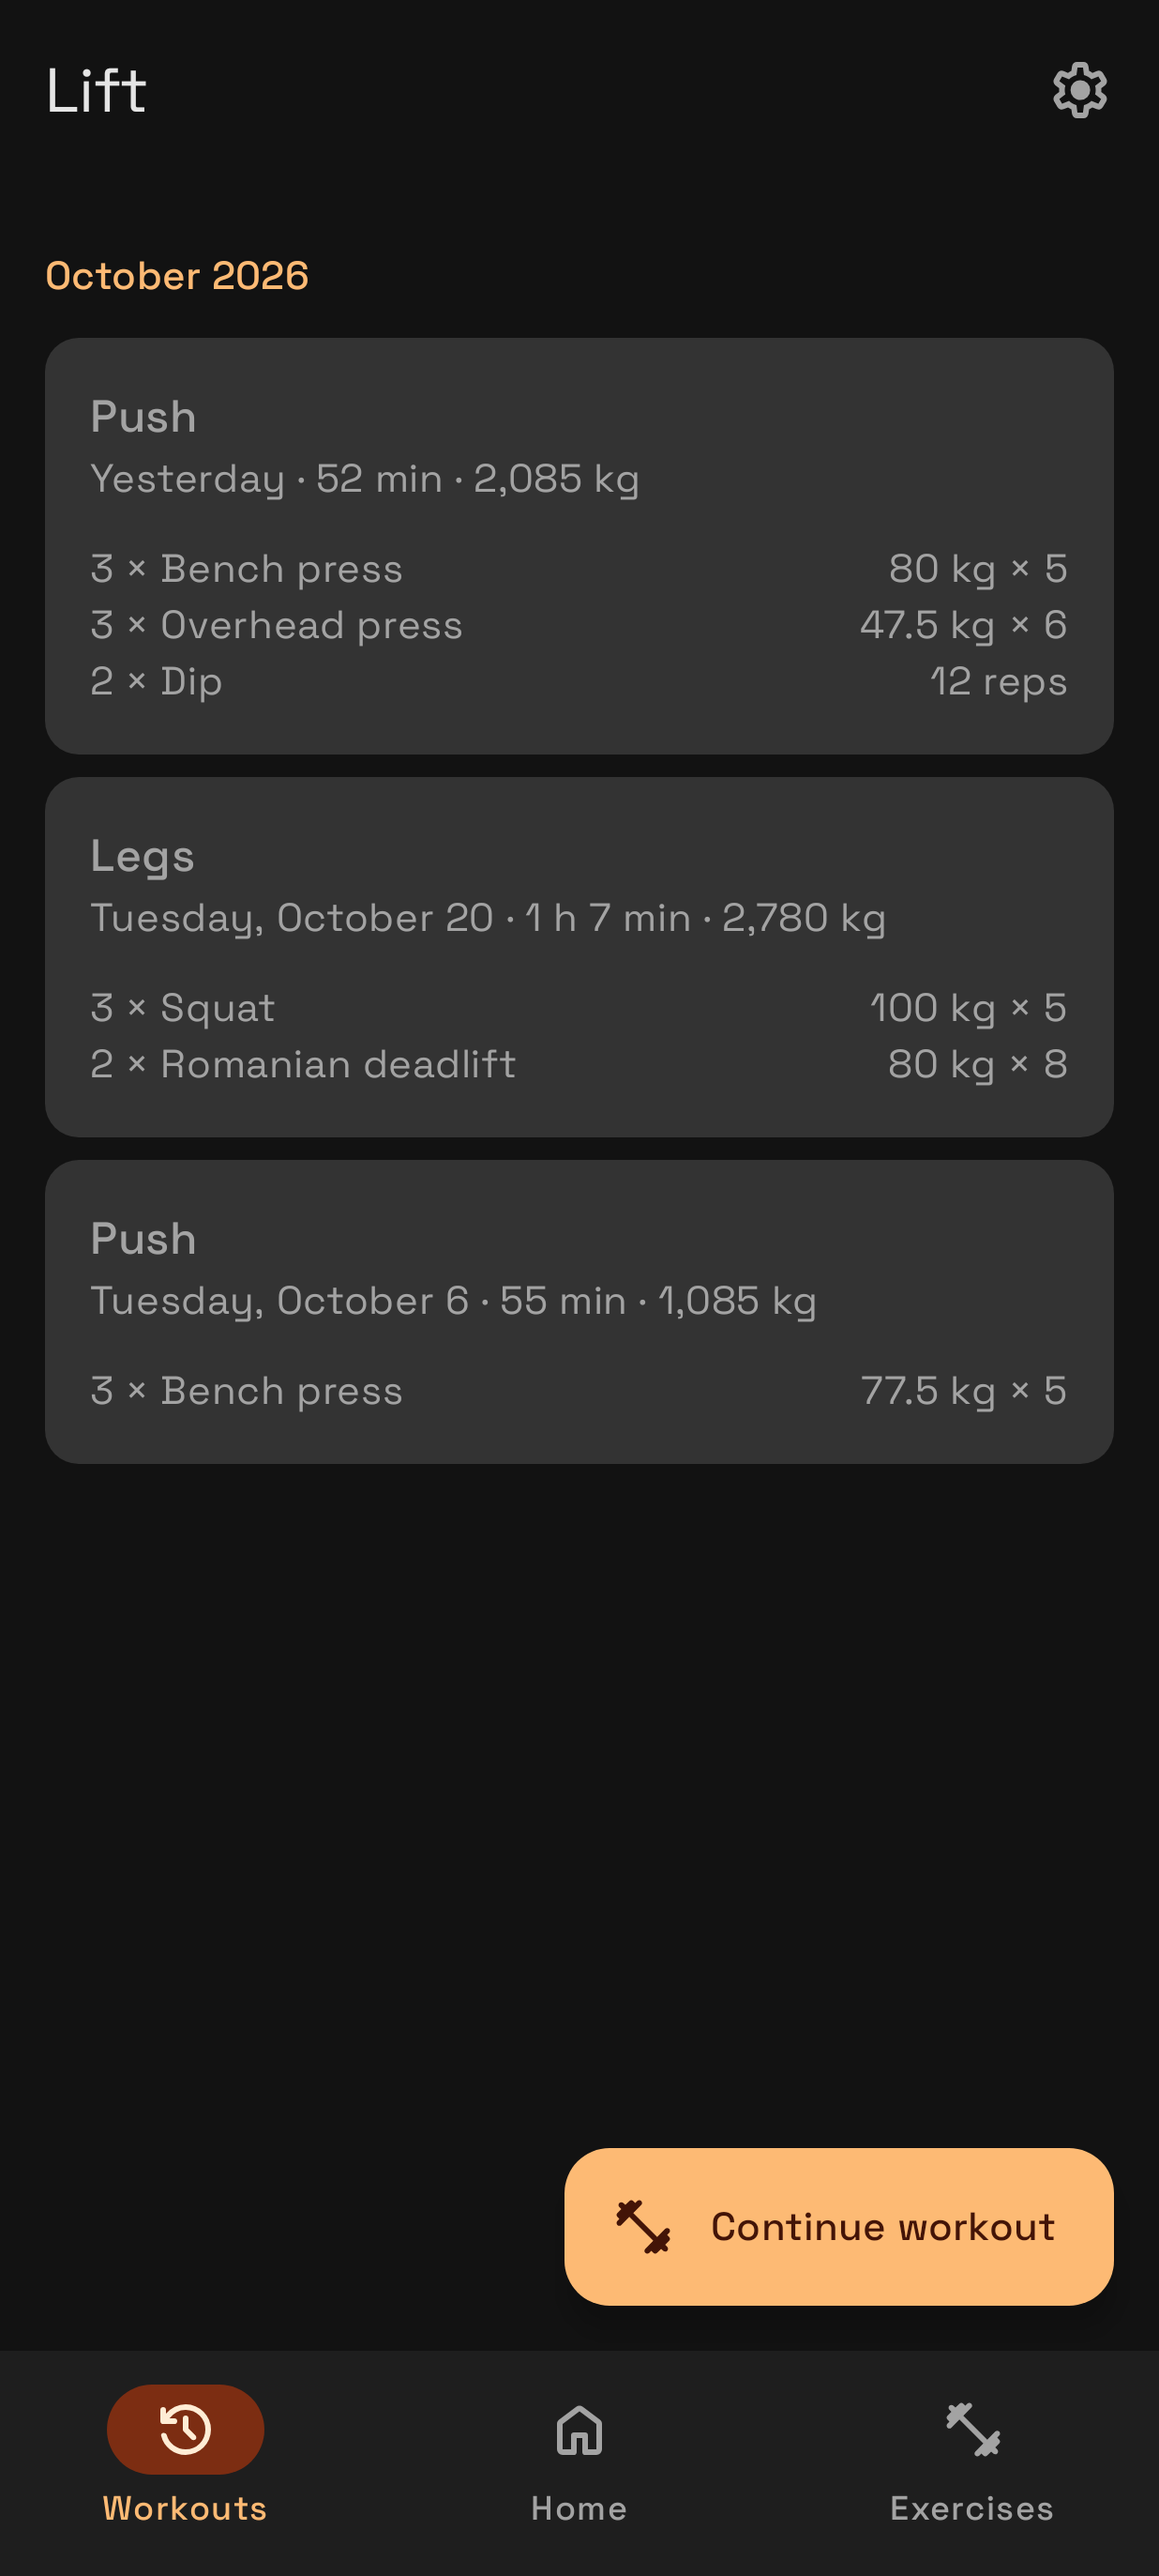
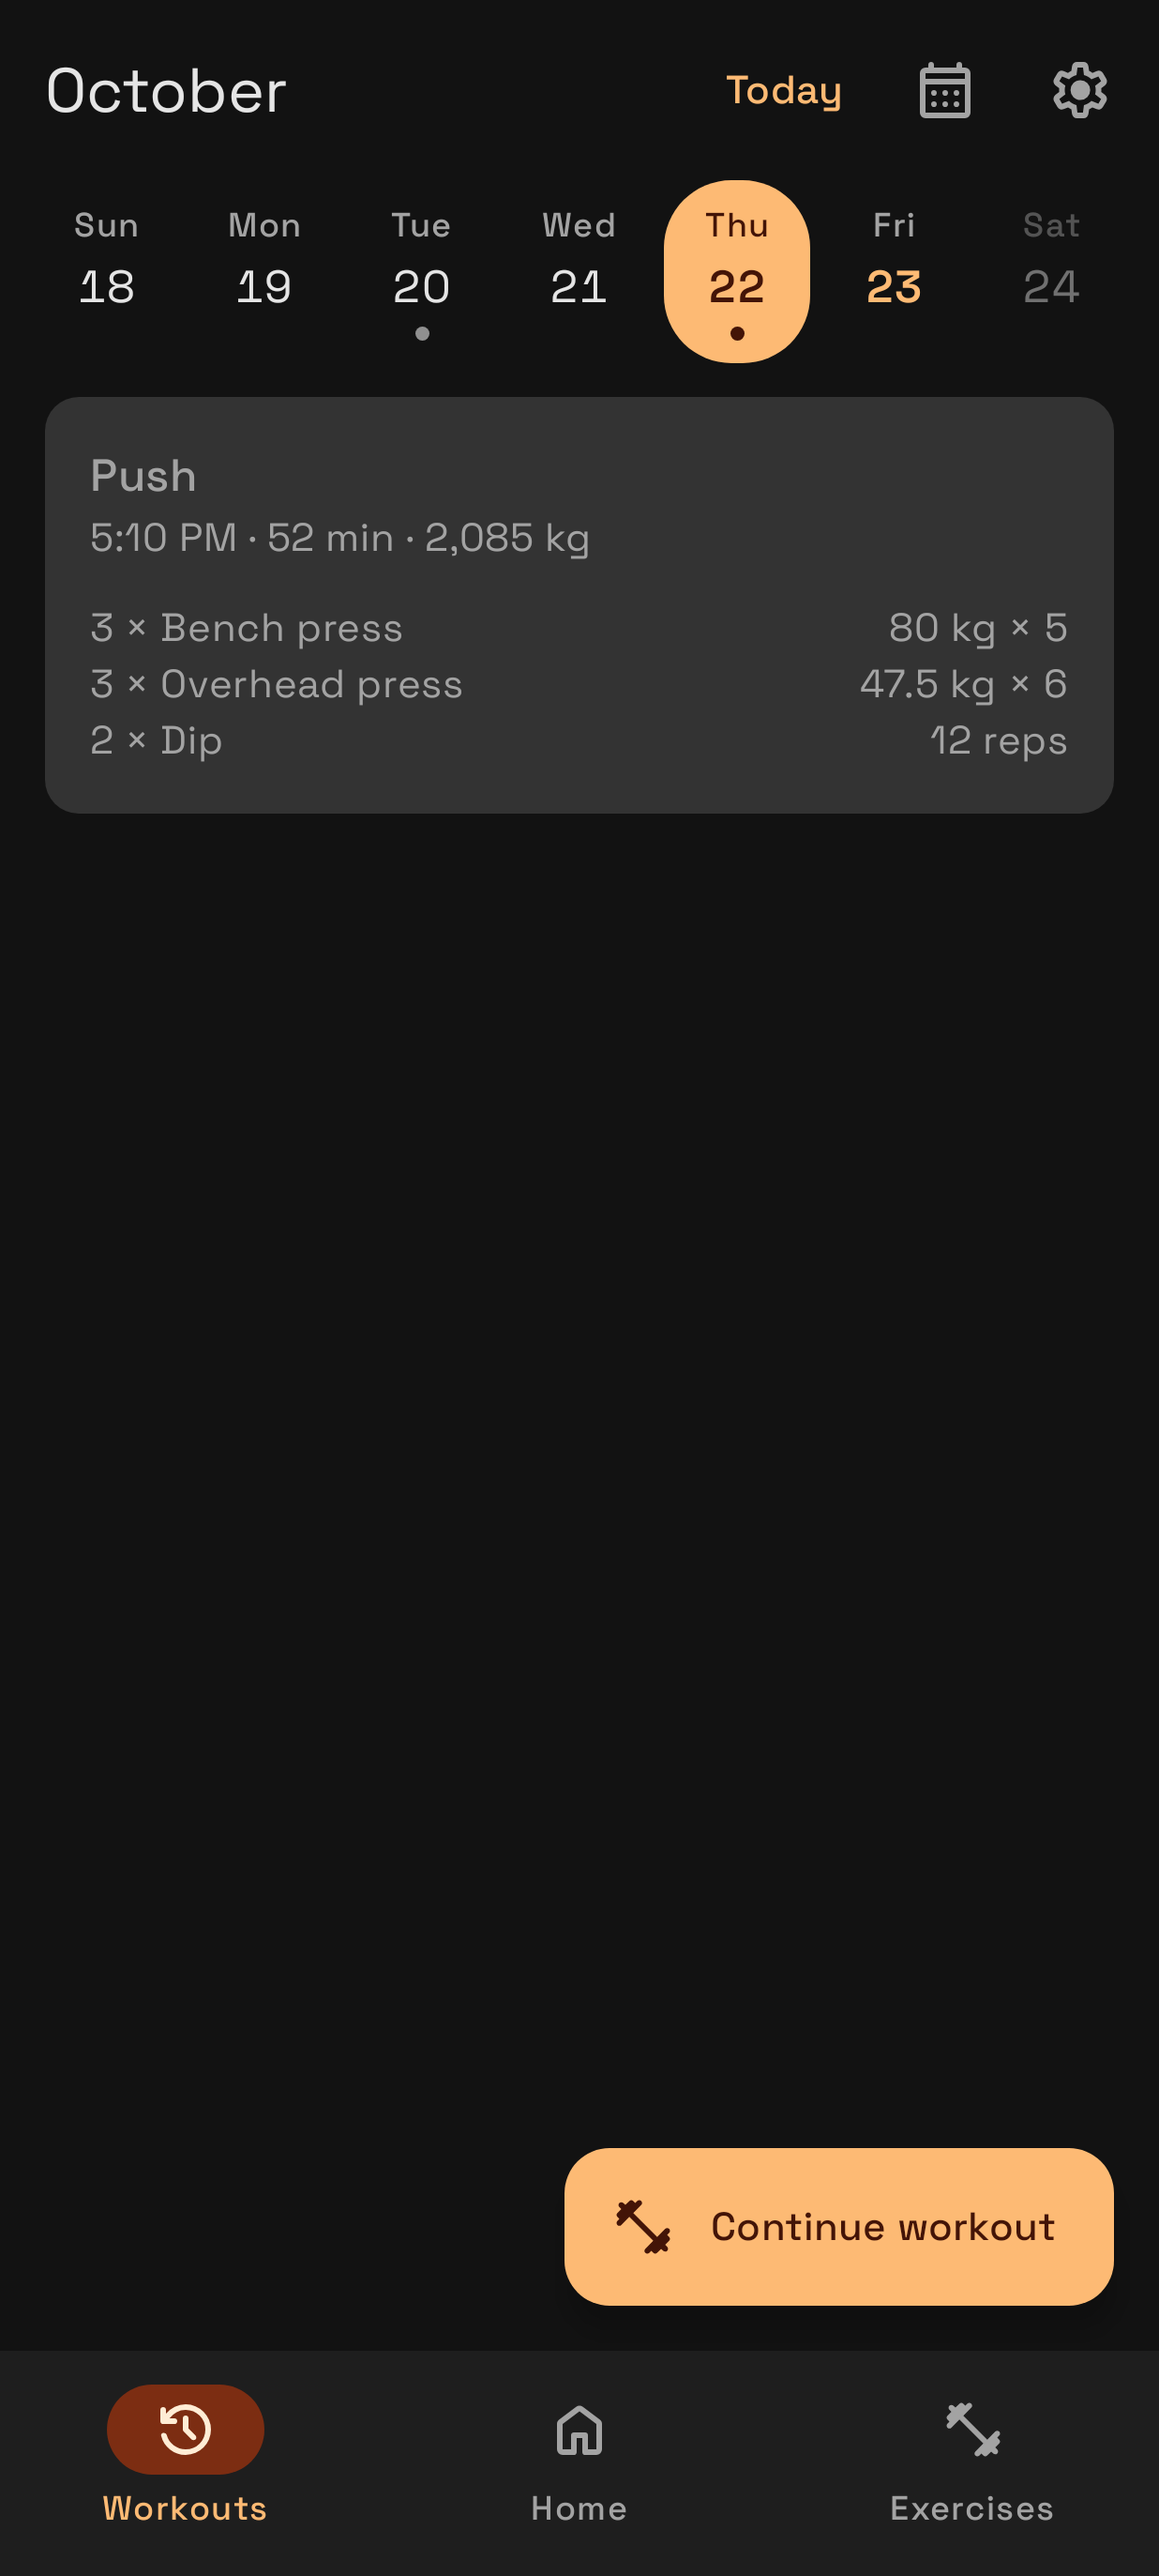
feat(lift): browse workout history a day at a time under a week strip
The Workouts tab now works like Tasks' list: a week strip with a dot on every day trained, a page per day swiped sideways, a month title, Today, and a calendar to jump to a date. It opens on the last day trained, stops at today, and shows Rest day on days without a workout.

Changed region(s): [[0.0307, 0.031, 0.9838, 0.5883], [0.7994, 0.0, 0.8301, 0.0619]]

diff --git a/apps/lift/src/main/kotlin/dev/freeranger/range/lift/ui/home/HomeScreen.kt b/apps/lift/src/main/kotlin/dev/freeranger/range/lift/ui/home/HomeScreen.kt
@@ -1,5 +1,7 @@
 package dev.freeranger.range.lift.ui.home
 
+import androidx.activity.compose.BackHandler
+import androidx.compose.foundation.background
 import androidx.compose.foundation.layout.Arrangement
 import androidx.compose.foundation.layout.Box
 import androidx.compose.foundation.layout.Column
@@ -23,6 +25,7 @@ import androidx.compose.material3.NavigationBar
 import androidx.compose.material3.NavigationBarItem
 import androidx.compose.material3.Scaffold
 import androidx.compose.material3.Text
+import androidx.compose.material3.TextButton
 import androidx.compose.material3.TopAppBar
 import androidx.compose.runtime.Composable
 import androidx.compose.runtime.getValue
@@ -45,7 +48,9 @@ import dev.freeranger.range.lift.ui.common.LiftFormat
 import dev.freeranger.range.lift.ui.common.rememberLiftFormat
 import dev.freeranger.range.lift.ui.common.rememberNow
 import dev.freeranger.range.lift.ui.exercise.ExerciseList
-import dev.freeranger.range.ui.components.RangeSectionHeader
+import dev.freeranger.range.ui.components.RangeDatePickerDialog
+import dev.freeranger.range.ui.components.RangeDayPager
+import dev.freeranger.range.ui.components.RangeWeekStrip
 import dev.freeranger.range.ui.icons.RangeIcons
 import dev.freeranger.range.ui.theme.RangeSpace
 import java.time.Instant
@@ -86,7 +91,10 @@ data class HomeActions(
 
 enum class HomeTab { Workouts, Home, Exercises }
 
-/** Three tabs: past workouts, the progress dashboard in the middle where the app opens, and the exercise library. */
+/**
+ * Three tabs: past workouts a day at a time under a week strip, the dashboard in the middle where
+ * the app opens, and the exercise library.
+ */
 @OptIn(ExperimentalMaterial3Api::class)
 @Composable
 fun HomeScreen(
@@ -95,21 +103,58 @@ fun HomeScreen(
     actions: HomeActions,
     modifier: Modifier = Modifier,
     initialTab: HomeTab = HomeTab.Home,
+    initialDay: LocalDate? = null,
 ) {
     val format = rememberLiftFormat()
     var tab by rememberSaveable { mutableStateOf(initialTab) }
+    val today = now.atZone(format.zone).toLocalDate()
+    // The log opens on the last day trained, which is more use than today's usually empty page.
+    val trained = remember(state.history, format) { state.history.map { it.workout.startedAt.atZone(format.zone).toLocalDate() }.toSet() }
+    val lastTrained = trained.maxOrNull()?.coerceAtMost(today) ?: today
+    var picked by rememberSaveable { mutableStateOf(initialDay) }
+    val day = picked ?: lastTrained
+    val select = { date: LocalDate -> picked = date.coerceAtMost(today) }
+    var pickingDate by rememberSaveable { mutableStateOf(false) }
+    val log = tab == HomeTab.Workouts
+
+    BackHandler(enabled = log && picked != null) { picked = null }
 
     Scaffold(
         modifier = modifier,
         topBar = {
-            TopAppBar(
-                title = { Text(stringResource(R.string.app_title)) },
-                actions = {
-                    IconButton(onClick = actions.openSettings) {
-                        Icon(RangeIcons.Settings, contentDescription = stringResource(R.string.settings_title))
-                    }
-                },
-            )
+            Column(Modifier.background(MaterialTheme.colorScheme.surface)) {
+                TopAppBar(
+                    title = { Text(if (log) format.month(day, today) else stringResource(R.string.app_title)) },
+                    actions = {
+                        if (log) {
+                            if (day != today) {
+                                TextButton(onClick = { select(today) }) { Text(stringResource(R.string.date_today)) }
+                            }
+                            IconButton(onClick = { pickingDate = true }) {
+                                Icon(RangeIcons.CalendarMonth, contentDescription = stringResource(R.string.action_go_to_date))
+                            }
+                        }
+                        IconButton(onClick = actions.openSettings) {
+                            Icon(RangeIcons.Settings, contentDescription = stringResource(R.string.settings_title))
+                        }
+                    },
+                )
+                if (log) {
+                    RangeWeekStrip(
+                        selected = day,
+                        today = today,
+                        firstDayOfWeek = format.firstDayOfWeek,
+                        onSelect = select,
+                        label = format::weekdayShort,
+                        describe = format::header,
+                        marked = { it in trained },
+                        modifier = Modifier.padding(bottom = RangeSpace.s2),
+                        last = today,
+                        // A log looks back: it's the days still to come that are grayed out.
+                        faded = { it > today },
+                    )
+                }
+            }
         },
         bottomBar = {
             NavigationBar {
@@ -154,7 +199,9 @@ fun HomeScreen(
         // Leaves room for the button over the end of the list.
         val contentPadding = PaddingValues(top = padding.calculateTopPadding(), bottom = padding.calculateBottomPadding() + 96.dp)
         when (tab) {
-            HomeTab.Workouts -> WorkoutHistory(state, now, format, actions, contentPadding)
+            HomeTab.Workouts -> RangeDayPager(selected = day, onSelect = select, modifier = Modifier.fillMaxSize(), last = today) { page ->
+                DayLog(state, page, format, actions, contentPadding)
+            }
             HomeTab.Home -> Dashboard(state, now, format, actions, contentPadding)
             HomeTab.Exercises -> ExerciseList(
                 exercises = state.exercises,
@@ -164,18 +211,34 @@ fun HomeScreen(
             )
         }
     }
+
+    if (pickingDate) {
+        RangeDatePickerDialog(
+            initial = day,
+            locale = format.locale,
+            confirmText = stringResource(R.string.dialog_ok),
+            dismissText = stringResource(R.string.dialog_cancel),
+            onConfirm = {
+                select(it)
+                pickingDate = false
+            },
+            onDismiss = { pickingDate = false },
+            last = today,
+        )
+    }
 }
 
+/** One day's page of the log: the workouts done that day, or a rest day. */
 @Composable
-private fun WorkoutHistory(state: HomeState, now: Instant, format: LiftFormat, actions: HomeActions, contentPadding: PaddingValues) {
-    val today = now.atZone(format.zone).toLocalDate()
-    val months = remember(state.logs, format) {
-        state.history.groupBy { it.workout.startedAt.atZone(format.zone).toLocalDate().withDayOfMonth(1) }
+private fun DayLog(state: HomeState, day: LocalDate, format: LiftFormat, actions: HomeActions, contentPadding: PaddingValues) {
+    val workouts = remember(state.history, day, format) {
+        state.history.filter { it.workout.startedAt.atZone(format.zone).toLocalDate() == day }.sortedBy { it.workout.startedAt }
     }
-    if (state.loaded && months.isEmpty()) {
+    if (workouts.isEmpty()) {
+        if (!state.loaded) return
         Box(Modifier.fillMaxSize().padding(contentPadding).padding(RangeSpace.s8), contentAlignment = Alignment.Center) {
             Text(
-                stringResource(R.string.workouts_empty),
+                stringResource(if (state.history.isEmpty()) R.string.workouts_empty else R.string.workouts_rest_day),
                 style = MaterialTheme.typography.bodyLarge,
                 color = MaterialTheme.colorScheme.onSurfaceVariant,
                 textAlign = TextAlign.Center,
@@ -184,17 +247,14 @@ private fun WorkoutHistory(state: HomeState, now: Instant, format: LiftFormat, a
         return
     }
     LazyColumn(Modifier.fillMaxSize(), contentPadding = contentPadding) {
-        months.forEach { (month, logs) ->
-            item(key = "month $month") { RangeSectionHeader(format.month(month)) }
-            items(logs, key = { it.workout.id }) { log ->
-                WorkoutCard(log, today, format, onClick = { actions.openWorkout(log.workout.id) })
-            }
+        items(workouts, key = { it.workout.id }) { log ->
+            WorkoutCard(log, format, onClick = { actions.openWorkout(log.workout.id) })
         }
     }
 }
 
 @Composable
-private fun WorkoutCard(log: WorkoutLog, today: LocalDate, format: LiftFormat, onClick: () -> Unit) {
+private fun WorkoutCard(log: WorkoutLog, format: LiftFormat, onClick: () -> Unit) {
     val workout = log.workout
     Card(
         onClick = onClick,
@@ -207,7 +267,7 @@ private fun WorkoutCard(log: WorkoutLog, today: LocalDate, format: LiftFormat, o
             Text(
                 stringResource(
                     R.string.workout_summary,
-                    format.day(workout.startedAt, today),
+                    format.time(workout.startedAt),
                     format.duration(workout.startedAt, workout.finishedAt ?: workout.startedAt),
                     format.volume(log.volume),
                 ),

diff --git a/apps/lift/src/main/kotlin/dev/freeranger/range/lift/ui/common/LiftFormat.kt b/apps/lift/src/main/kotlin/dev/freeranger/range/lift/ui/common/LiftFormat.kt
@@ -25,6 +25,7 @@ import java.time.Instant
 import java.time.LocalDate
 import java.time.ZoneId
 import java.time.format.DateTimeFormatter
+import java.time.format.TextStyle
 import java.time.temporal.WeekFields
 import java.util.Locale
 import kotlin.math.abs
@@ -47,7 +48,9 @@ class LiftFormat(context: Context) {
     private val timeFormat = pattern(if (DateFormat.is24HourFormat(context)) "Hm" else "hma")
     private val dateFormat = pattern("EEEEdMMMM")
     private val dateYearFormat = pattern("EEEEdMMMMy")
-    private val monthFormat = pattern("LLLLy")
+    private val monthFormat = pattern("LLLL")
+    private val monthYearFormat = pattern("LLLLy")
+    private val headerFormat = pattern("EEEEdMMMM")
     private val shortDateFormat = pattern("MMMd")
     private val weightFormat = NumberFormat.getNumberInstance(locale).apply { maximumFractionDigits = 2 }
     private val volumeFormat = NumberFormat.getIntegerInstance(locale)
@@ -128,8 +131,16 @@ class LiftFormat(context: Context) {
     /** "Oct 12": a date on a chart's axis. */
     fun shortDate(date: LocalDate): String = date.format(shortDateFormat)
 
-    /** "October 2026", heading a month of workouts. */
-    fun month(date: LocalDate): String = date.format(monthFormat).capitalized()
+    /** "October" above the week strip, with the year when it isn't this one: "January 2025". */
+    fun month(date: LocalDate, today: LocalDate): String =
+        date.format(if (date.year == today.year) monthFormat else monthYearFormat).capitalized()
+
+    /** "Thu": a day in the week strip. */
+    fun weekdayShort(date: LocalDate): String =
+        date.dayOfWeek.getDisplayName(TextStyle.SHORT, locale).removeSuffix(".").capitalized()
+
+    /** "Thursday 22 October": a day read out in full. */
+    fun header(date: LocalDate): String = date.format(headerFormat).capitalized()
 
     fun duration(from: Instant, to: Instant): String {
         val minutes = Duration.between(from, to).toMinutes().coerceAtLeast(0)

diff --git a/apps/lift/src/test/kotlin/dev/freeranger/range/lift/ScreenshotTest.kt b/apps/lift/src/test/kotlin/dev/freeranger/range/lift/ScreenshotTest.kt
@@ -200,6 +200,9 @@ class ScreenshotTest {
     fun workouts() = capture { HomeScreen(home, now, HomeActions(), initialTab = HomeTab.Workouts) }
 
     @Test
+    fun workoutsRestDay() = capture { HomeScreen(home, now, HomeActions(), initialTab = HomeTab.Workouts, initialDay = friday.minusDays(2)) }
+
+    @Test
     @Config(qualifiers = "sv-rSE-$PHONE")
     fun workoutsSwedish() = capture { HomeScreen(home, now, HomeActions(), initialTab = HomeTab.Workouts) }
 
